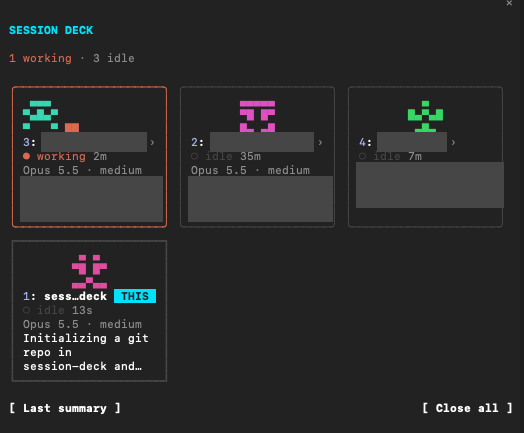
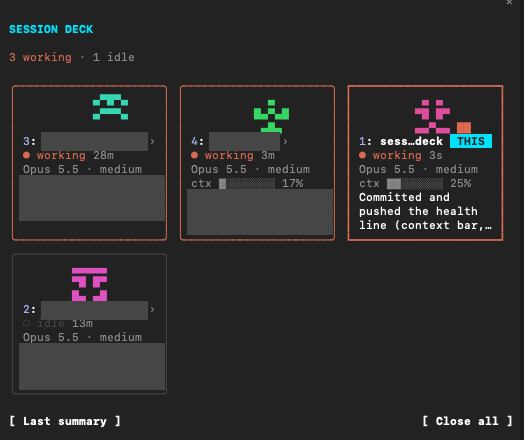
Describe the health line and show it in the screenshot
Project names and summaries are redacted.

diff --git a/README.md b/README.md
@@ -2,9 +2,10 @@
 
 A Claude Code pane listing every running Claude Code session on this machine: working, waiting on you, or idle.
 
-![The Session Deck pane: a card per session with its status, model and summary](docs/screenshot.png)
+![The Session Deck pane: a card per session with its status, model, context bar and summary](docs/screenshot.png)
 
 - **A card per session** with its status, model, and a one-line summary of what it's doing. Keys `1`–`9` jump to a session's terminal tab.
+- **Health line.** Each card shows how full the session's context window is (amber from 70%, red from 90%) and what it has cost where there's room. It warns when a working session has made no progress for 5 minutes or the same call has failed 3 times in a row, and names a command that has been running over 2 minutes. The tally counts stalled sessions.
 - **Approval tray.** When a session needs permission and its tab isn't in front, the request waits in the deck: `y` allows, `n` denies with an optional reason the session reads, `j` jumps to its tab. Risky commands (`rm -rf`, `git push`, `sudo`, `curl … | sh`, writes outside the project) take a second press. Requests in auto mode are left to auto mode.
 - **Close all / Resume.** Closes every session after writing an end-of-day summary to `~/session-deck-logs/`, and reopens them later.
 
